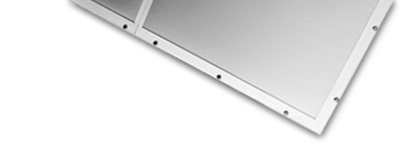
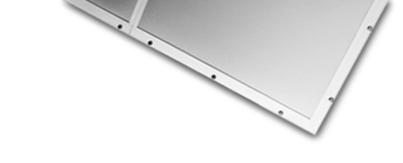
fix

diff --git a/index.html b/index.html
@@ -42,7 +42,7 @@ title: 欢迎 | 维克（天津）有限公司
       <div class="img-card waves-effect waves-block waves-light">
         <div class="card-image">
           <a href="{{site.baseurl}}/product" class="grey-text text-darken-3">
-            <img class="responsive-img" src="{{site.baseurl}}/img/home/3.jpg">
+            <img class="responsive-img" src="{{site.baseurl}}/img/home/3.png">
             <span class="card-title-custom">维克旗下公司及产品
               <br>Product</span>
           </a>

diff --git a/_site/index.html b/_site/index.html
@@ -121,7 +121,7 @@
       <div class="img-card waves-effect waves-block waves-light">
         <div class="card-image">
           <a href="/product" class="grey-text text-darken-3">
-            <img class="responsive-img" src="/img/home/3.jpg">
+            <img class="responsive-img" src="/img/home/3.png">
             <span class="card-title-custom">维克旗下公司及产品
               <br>Product</span>
           </a>
